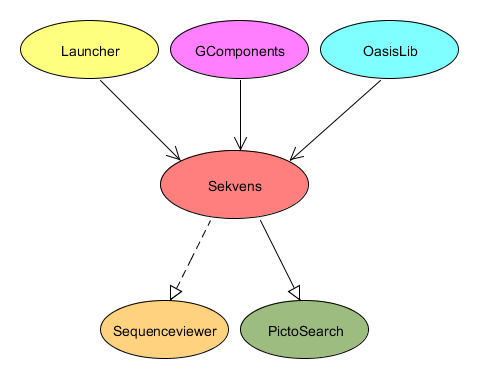
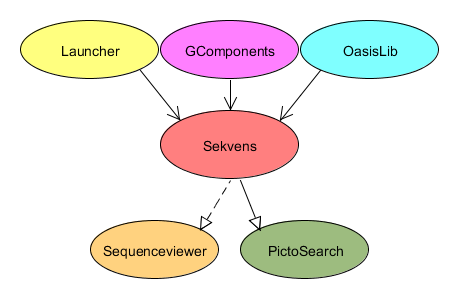
intro rettet lavet billeder

diff --git a/Report/Introduction/Introduction.tex b/Report/Introduction/Introduction.tex
@@ -1,4 +1,19 @@
 \chapter{Introduction}\label{chap:introduction}
-The proposed project for this semester is a multi-project involving the entire Software 6 class. The overall purpose of the project is to create a set of applications for the Android platform, designed to help autistic people and their guardians throughout their day. Examples of this are the application "Stemmespillet" which helps people learn how loud they are, and "Piktooplæser" which helps with communication by using pictures and audio.
-Previous Software 6 classes have worked on the same multi-project. This means that even from the beginning of the semester there was an existing code base to work from. While previous classes had developed several applications, none of them was in a state where they were ready to release. In general, most applications had crash issues and were missing a required connection to the designed database. Some applications were missing features or had implemented some bad workarounds to make it run. It was decided that the focus of this class should be to refactor and rework these programs to a degree where they could be released. Therefore, no new applications was made this semester.
-The development of applications has been based on requests and feedback from customers consisting of guardians working with autistic people. This means that at the end of the semester, the applications ideally consist of tools that both the guardians and autistic people can use effectively.
+The proposed project for this semester is a multi-project involving the entire Software 6 class. The overall purpose of the project, called GIRAF, is to create a set of applications for the Android platform, designed to help autistic people and their guardians throughout their day. Examples of this are applications like Stemmespillet, which helps people learn how loud they are, and PiktoOplæser which helps with communication by using pictograms and audio.
+Previous Software 6 classes have also worked on the GIRAF multi-project, see the GIRAF multi-project logo in figure \ref{fig:GIRAFlogo}. This means that even from the beginning of the semester there was an existing code base to work on. While previous classes had developed several applications, none of them was in a state where they were ready for release. In general, most applications had crash issues and were missing a required connection to the designed database. Some applications were missing features or had implemented some bad workarounds to make it run. It was decided that the focus of this class should be to refactor and rework these programs to a degree where they could be released. Therefore, no new applications was made this semester.
+The development of applications has been based on requests and feedback from customers consisting of guardians working with autistic people, primarily children. This means that at the end of the semester, the applications ideally consist of tools that both the guardians and children can use effectively.
+
+\begin{figure}[H]
+	\centering
+	\includegraphics[scale=1]{Pics/ic_giraf.png}
+	\caption{The GIRAF multi-project icon.}
+	\label{fig:GIRAFlogo}
+\end{figure}
+
+To give an example of the applications and their interaction with each other in the GIRAF multi-project, figure \ref{fig:sekvensContext} displays how Sekvens depends on Launcher, GUI, and OasisLib, and utilizes Sequenceviewer, and PictoSearch.
+\begin{figure}[H]
+	\centering
+	\includegraphics[scale=0.4]{Pics/sekvens.png}
+	\caption{The position of Sekvens in the multi-project after Sprint 4.}
+	\label{fig:sekvensContext}
+\end{figure}
